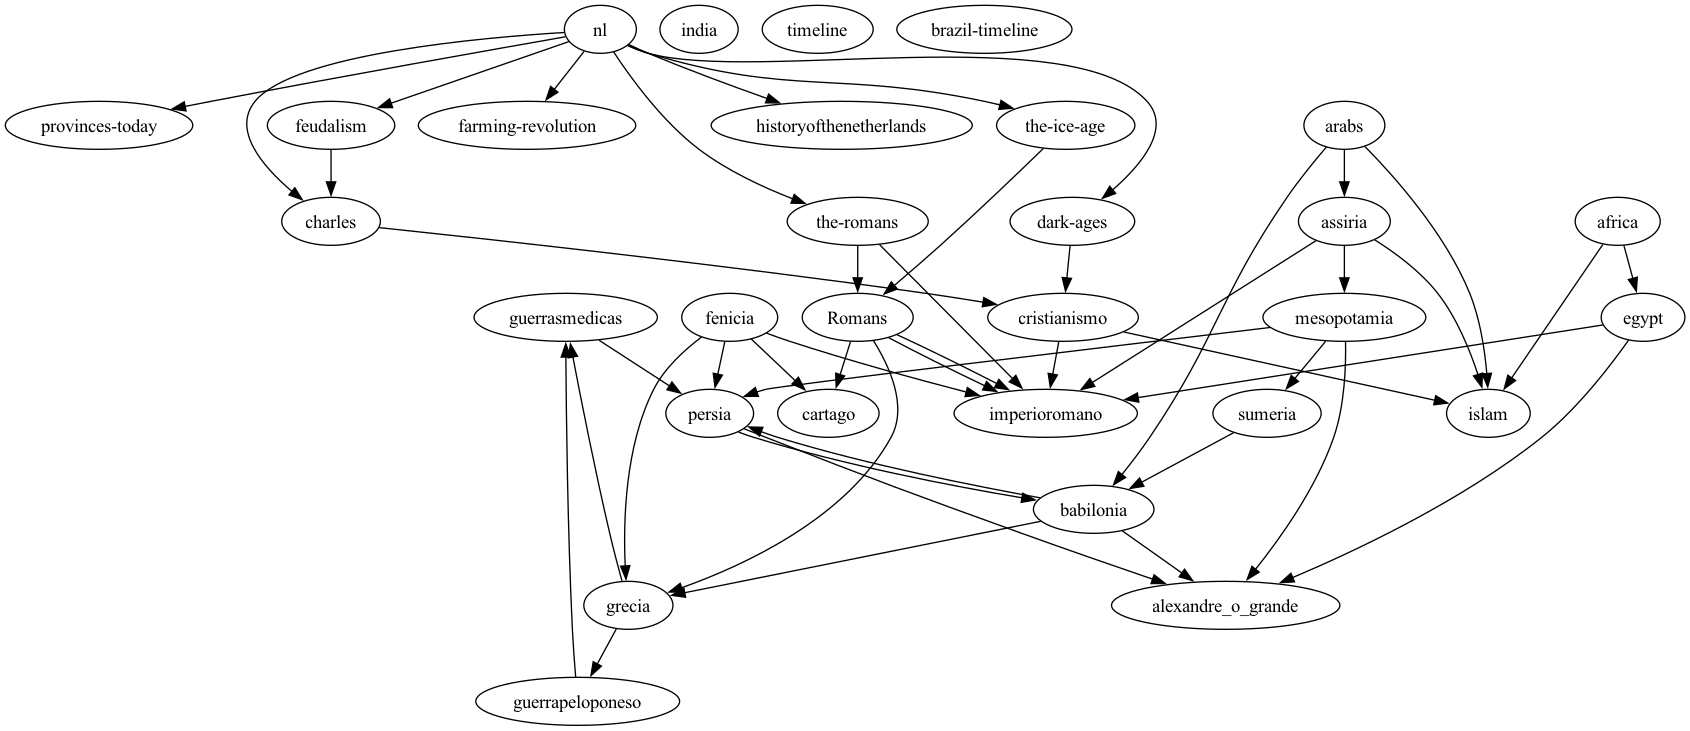
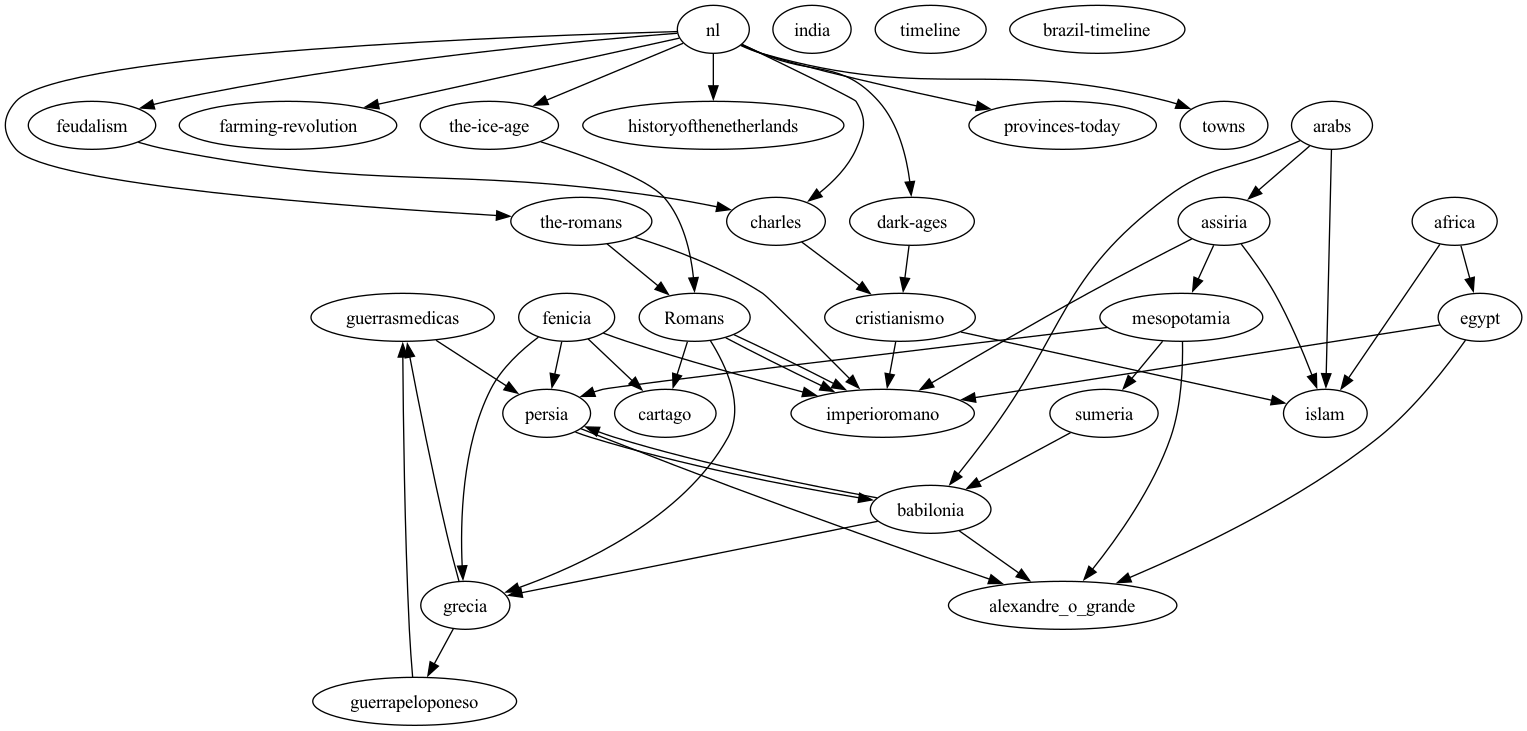
feat: urbanization in NL ::by sergio giraldo @ 20241218T2141CET, gpg signed

diff --git a/docs/netherlands/towns.md b/docs/netherlands/towns.md
@@ -1,0 +1,81 @@
+# Getting Down in Town
+
+Freed from the need to be working the land due to the improvements in agriculture, people in the Low Countries began congregating in urban centres. For the first time, members of the common class were able to put their fingers onto the scales of power, and begin to balance it back in their favour by making city charters. But the creation of a new body politic in the 11th century would not be without its adversaries, nor without its consequences.
+
+## Leaving the countryside and clearing forests
+
+With the surplus of labour created by the improvements in farming technology, many people took their skills and knowledge and moved away from the countryside to places where they could sell them. That meant that people began congregating in towns, where they could put their skills to industry, and from which merchants could take them to marketplaces. Often towns would pop up around existing castles, or abbeys and convents. Specialists would often group together, so certain towns became famous for, among other things, their cloth, brewing, or pottery.
+
+There were also many people who left their farms not to move to towns, but rather to reclaim land from the forests which covered the southern lowlands. In the last half of the 11th century, the land clearances which had already been happening since the 800s took on a more systematic nature and agricultural intensity ramped up in former forested areas. Peasants took opportunities by large landowners to go and create new fields that could be worked. Production of pigs, sheep and cows skyrocketed.
+
+| ![map](images/bruegel.jpeg) |
+| *Pieter Bruegel the Elder, The Battle Between Carnival and Lent, 1559* |
+
+## The creation of new communes
+
+Although other cities existed around Europe, these were often centres of ecclesiastical or monarchical power. What made many of these new towns in Flanders unique, however, was that they did not have established, central, administrative structures working on behalf of a sovereign. It’s tempting to say that their development had something organic about it. The people who flocked to each other had likely had to convince or defy their liege lord to let them go and seek opportunity elsewhere. From the start, in the growth of these settlements into towns, and then into cities, there seems to have been a rebelliousness and striving for something that smelled a bit like independence. That smell would not only linger but grow, especially as the amount of wealth in towns grew.
+
+>What made many of these new towns in Flanders unique, was that they did not have established, central, administrative structures working on behalf of a sovereign.
+
+Commercial endeavour paid great dividends. Merchants who had become rich could stop having to travel themselves, instead hiring others whilst they themselves stayed put in the towns. They could even buy land. These patricians became a class unto themselves, the nouveau riche, forming a base of power within these growing urban centres that relied not on bloodline or family name, but on having a bucket-load of money and commercial influence. Merchants in cities had common vested interests, so could eventually pool their wealth and influence together for all of their mutual benefit. Now, the liege lords had to reckon with the fact that new power bases, apart from themselves, were becoming established.
+
+## New sense of identity
+
+Towns were full of individuals who had gone there to build lives, to get work, and to build families and futures. This created a sense of citizenry, as town inhabitants became attached to a common identity that was along the lines of ‘I belong to this town’. This was even more pronounced over generational time-spans, once people were being born in, and growing up in the towns.
+
+It also created a market economy on which the increasingly powerful mercantile class depended. People were getting rich off the growth of these towns, and so it was in their interests to have all these people living, eating, buying, making and selling things. It was in their interests to protect the rights of those living in the towns, and to cast off the arbitrary justice of their lord’s whim.
+
+What you then had was nobles who needed money, and large groups of people with money, who wanted freedoms, which only the nobles could give.
+
+## Granting of town charters
+
+So, simply put, the ruling nobility started to sell privileges to people in towns. The oldest record of this is the city of Huy, on the river Meuse, within the domains of the bishop of Liege. It drew metalworkers and became renowned for that industry. But Huy also drew spinners and weavers and winemakers. In 1066 it was granted rights by the bishop, such as permission to build city walls, for instance. It has been noted that this charter was heavy on the rights of landlords to reclaim runaway serfs. It also resolved, however, that the landlords had to be able to prove the status of the serfs. So here for the first time, the rights of people living in towns began to be wrested from the hands of their liege lords.
+
+| ![map](images/Huy_castle_Chastillon.jpeg) |
+| *The town of Huy, as drawn c. 1600 by Claude Chastillon, bears the first record of city rights granted in the lowlands. This image provides a clear example of how these towns would develop. The castle, built originally in the 9th C, provides a focal point for commerce and authority, while the city walls provide protection, and help to establish a sense of independent identity.* |
+
+The impact of the crusades
+
+The great culmination of the Church’s integration within all levels of Western European society was the onset of the Crusades, which started in the 1090s. Following Pope Urban II’s rallying cry for true Christians to go and help the Byzantine Emperor take Jerusalem back from the Seljuk Turks, various groups began to mobilise. Surprisingly, some of the first and most celebrated emerged out of the lowlands. Peter the Hermit infamously led the people’s crusade, which was composed mainly of commoners, and which set off before the first, organised military crusade.
+
+| ![map](images/statue1000godefroiddebouillon01.jpeg) |
+| *Godfrey of Bouillon (c.1060-1100), duke of Lower Lorraine and a leader of the First Crusade. He became the first Latin ruler in Palestine after the capture of Jerusalem from the Muslims in July 1099* |
+
+The so-called ‘First Crusade’, which followed the people’s crusades, was a great, militarised mobilisation of princely forces from around Christendom. It consisted of four armies, including one led by Godfrey of Bouillon, the Duke of Lower Lorraine ie, the lowlands. He rallied the counts, dukes and other princes around the lowlands, entreating them all to join their forces and head off to take back Jerusalem. Some, such as the Count of Mons and Hainaut, agreed. Others, such as Dirk II the Count of Holland, did not. The Crusades thus created gaps in the existing power structures of the nobility, which the towns, with their rising sense of independence, strove to fill.
+
+## The 12th Century Renaissance
+
+In 1115, a Cistercian monk called Bernard founded an abbey at Clairvaux and went about building immense influence within the Catholic hierarchy. He undertook two journeys into the lowlands and founded Cistercian abbeys there. He would also be the main figure to preach the Second Crusade and, when it ended in absolute failure, was the one who bore the weight of blame for it. The Cistercian movement was strengthened through the actions of another monk, called Norbert of Xanten, from the Rhineland. He too founded monasteries in the lowlands and, together with Bernard, became so influential as to be attendant within the court of the Emperor when he was in the lowlands.
+
+Bernard and Norbert, and other Cistercians, taught that ancient texts could give specific and exact rules, and not just guidelines, for how one could be the best monk possible, and how wholesome, Christian communities could function. This promoted the intensified gathering, reading and interpreting of as many texts as possible right at the moment when returning crusaders were bringing back so much ancient material which had been begged, borrowed or stolen from the Islamic world. This time period would become known as the 12th Century Renaissance.
+
+| ![map](images/Bernard_of_Clairvaux_-_Gutenburg_-_13206-600x745.jpeg) |
+| *Cistercian monk and mystic Bernard of Clairvaux (1090-1153) was founder and abbot of the abbey of Clairvaux and one of the most influential churchmen of his time* |
+
+So, as well as urbanisation causing the rise of a patrician class within towns and the first big ruptures of absolute feudalism in Europe, there was a general promotion of learning that only served to increase self-empowerment.
+
+## The murder of Charles the Good
+
+The city of Lille, in 1127, was ruled by the Count of Flanders and Hainaut. One day, that count, whose name was Charles, rode into the city to reclaim a runaway serf, but was chased off by the locals, who had armed themselves against him. Apparently, some among the Count’s retinue were even beaten up and thrown into the swamp. The Count soon returned with his forces and besieged Lille, forcing the citizens to pay fourteen hundred marks of silver. Although they had been put down by the Count, the town citizens had clearly been emboldened by their new found collective strength, and were willing to stand up to their rulers.
+
+| ![map](images/Sint-Salvatorskathedraal_-_Bruges_-_IMG_4774-600x800.jpeg) |
+| *Charles the Good (c. 1084-1127) on his reliquary in the Saint-Salvator Cathedral in Bruges* |
+
+Early the next year, Charles was involved in another incident which demonstrated how the fragile relationship between the towns and the old nobility could easily disintegrate, when he was murdered after trying to have an influential family known as the Erembalds recognised as his serfs. Charles’ murder caused much outrage amongst all classes. Immediately upon his death, he was portrayed as a benevolent and kind ruler, and was given the appellation Charles the Good. The shocking event of Charles’ murder was talked about around Europe and chronicled by Galbert of Bruges.
+
+## Adjusting to the new reality
+
+Some lords saw that prosperous cities could actually be beneficial to themselves in different ways: politically, militarily and economically. Ruling lords had rights and needed money, and towns had money and needed rights. So they began to make trade-offs, and use the growing commercial power of the towns to their benefit, trading privileges for taxes.
+
+Charles the Good died without issue and so the question of his succession sparked a civil war that would end in the Count of Alsace, Philip, becoming the new count of Flanders. He is a fine example of an upper noble, adjusting to the intellectualism of the 12th-century renaissance and to the change in social structure taking place with urbanisation.
+
+He started granting privileges to the wealthiest, most productive towns of Flanders. In 1170, he then took a leaf out of the codified law book of ancient Rome – a hot topic within the discussions and writings happening at the time – and came up with a Great Charter. This codified the laws governing those towns: Bruges, Ghent, Lille, Arras, Douai, Ypres and St Omer. So with uniform law, and beginning to acquire privileges, these towns were on their way to gaining city rights.
+
+| ![map](images/grants-city-rights.jpeg) |
+| *Dates that towns were granted city rights* |
+
+## City rights
+
+City rights included the permission to build a wall; having a marketplace; having their own court and trials; having the right to charge tolls; the right to levy taxes and to mint coins. Once accumulated these all made the towns stronger, able to regulate the commerce within their boundaries and to be of benefit to the count’s ability to get taxes for himself.
+
+In terms of how our modern world has developed, town citizens gaining the right to be tried according to reason, by a town jury, rather than face the arbitrary judgment of the nobility, is perhaps the most important development of this era. Gaining some level of control of judicial processes within the town, having the means to regulate the marketplace and acquiring rights for citizens of towns to defend themselves and make decisions for themselves are components that define modern societies today. Before this time, the feudal system had forced most people to be stuck in bondage, tied to the land and totally deprived of any kind of political rights. With the rise of towns during this period of urbanization, non-noble people were for the first time able to put their fingers onto the scales of power, and at least begin to balance it in their favour.

diff --git a/docs/netherlands/nl.md b/docs/netherlands/nl.md
@@ -15,3 +15,5 @@
 [Welcome to Family Feudalism](feudalism)
 
 [Ploughin' Forward](farming-revolution)
+
+[Gettig Down in Town](towns)
